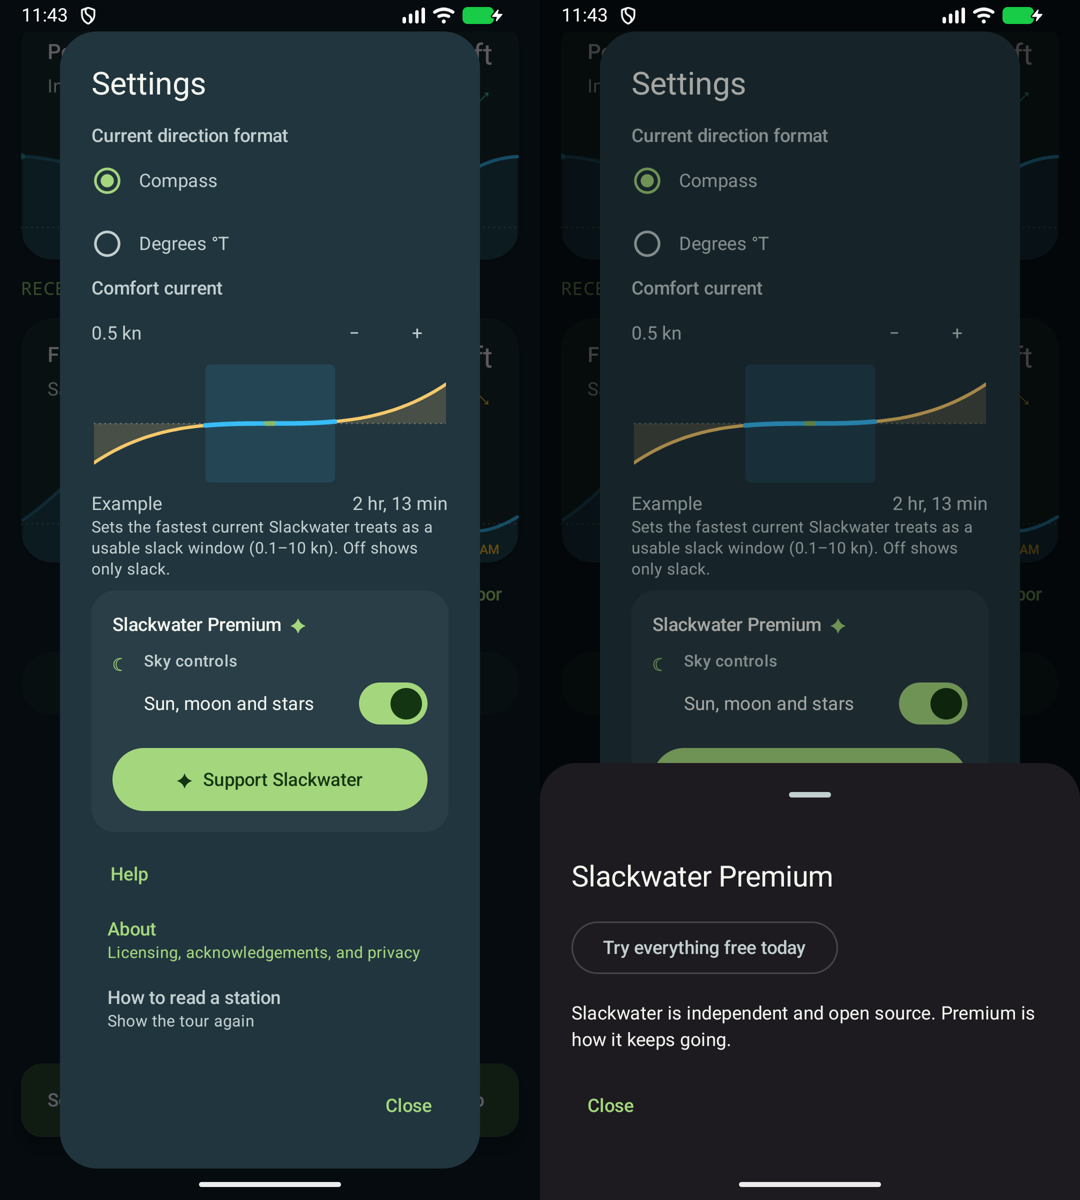
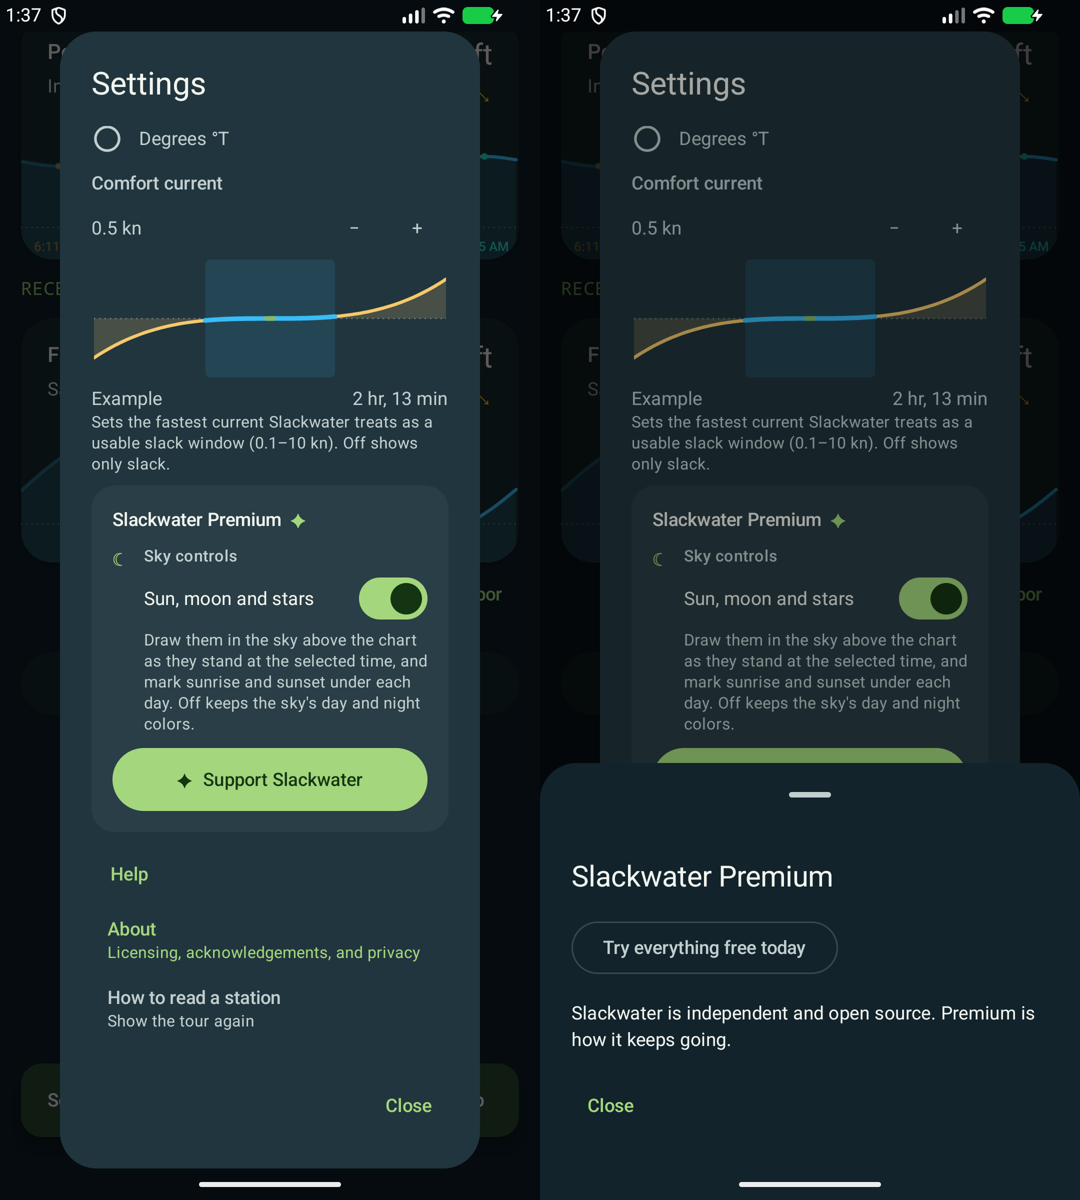
Keep the sky's day and night colors when the sun, moon and stars are off
Scrubber §14 has the switch drop only the bodies: no sun disc, moon glyph, eclipse silhouette or stars, with the gradient and eclipse shading staying. The chart stopped computing sky frames with the switch off and so painted plain navy. Frames now keep coming, the drawing stops after the gradient when the bodies are off, and the twinkle loop runs only while stars are drawn. With the chart matching, the Settings card carries iOS's footnote under the switch.

Closes #112.

diff --git a/app/src/androidTest/kotlin/io/openwaters/slackwater/android/detail/ChartSkyOffTest.kt b/app/src/androidTest/kotlin/io/openwaters/slackwater/android/detail/ChartSkyOffTest.kt
@@ -1,0 +1,120 @@
+package io.openwaters.slackwater.android.detail
+
+import android.graphics.Bitmap
+import android.graphics.Canvas
+import android.graphics.Color
+import androidx.compose.foundation.layout.Box
+import androidx.compose.foundation.layout.width
+import androidx.compose.ui.Modifier
+import androidx.compose.ui.graphics.toPixelMap
+import androidx.compose.ui.platform.testTag
+import androidx.compose.ui.test.captureToImage
+import androidx.compose.ui.test.junit4.v2.createComposeRule
+import androidx.compose.ui.test.onNodeWithTag
+import androidx.compose.ui.unit.dp
+import io.openwaters.slackwater.TidePoint
+import io.openwaters.slackwater.TideRatePoint
+import io.openwaters.slackwater.android.core.prediction.PredictionSeries
+import io.openwaters.slackwater.android.core.station.StationId
+import io.openwaters.slackwater.android.core.station.StationIdentity
+import io.openwaters.slackwater.android.core.station.StationKind
+import io.openwaters.slackwater.android.core.timeline.SkyBody
+import io.openwaters.slackwater.android.core.timeline.SkyFrame
+import io.openwaters.slackwater.android.core.timeline.SkyStar
+import java.time.Instant
+import org.junit.Assert.assertFalse
+import org.junit.Assert.assertTrue
+import org.junit.Rule
+import org.junit.Test
+
+class ChartSkyOffTest {
+    @get:Rule val compose = createComposeRule()
+    private val now = Instant.parse("2026-06-01T20:00:00Z")
+    private val width = 240f
+    private val horizon = 186f
+    // Midday: the sun high in the middle of the sky, the moon up to its left.
+    private val noon = SkyFrame(
+        sun = SkyBody(x = 0.5, altitude = 30.0), moon = SkyBody(x = 0.25, altitude = 30.0),
+        phase = 0.5, limbDegrees = 0.0, obscuration = 0.0, umbra = 0.0, wash = 0.0, stars = emptyList(),
+    )
+
+    private fun draw(frame: SkyFrame?, bodies: Boolean): Bitmap {
+        val bitmap = Bitmap.createBitmap((width * 4).toInt(), 420 * 4, Bitmap.Config.ARGB_8888)
+        val canvas = Canvas(bitmap).apply { scale(4f, 4f) }
+        ChartDrawing(canvas, width, now, now).sky(frame, horizon, 0.0, 0f, 0f, bodies = bodies)
+        return bitmap
+    }
+
+    // Where `sky` places the sun's 8-unit disc: centred across the padded width, 3 units per degree above the horizon.
+    private fun sunPixel(bitmap: Bitmap) =
+        bitmap.getPixel(((noon.sun.x * (width + 16) - 8) * 4).toInt(), ((horizon - 3 * noon.sun.altitude) * 4).toInt())
+
+    private fun isSunYellow(color: Int) = Color.red(color) > 200 && Color.green(color) > 160 && Color.blue(color) < 140
+
+    @Test fun withTheBodiesOffTheDaySkyKeepsItsGradientWithoutTheSun() {
+        val bare = draw(null, bodies = false)
+        val navy = bare.getPixel(40, 20)
+        bare.recycle()
+        val off = draw(noon, bodies = false)
+        // The daytime top colour is a day blue, well away from the navy drawn when no sky is painted.
+        val top = off.getPixel(40, 20)
+        assertTrue("top ${Integer.toHexString(top)} navy ${Integer.toHexString(navy)}",
+            Color.blue(top) - Color.blue(navy) > 60 && Color.blue(top) > Color.red(top) + 60)
+        // The gradient brightens toward the horizon.
+        val low = off.getPixel(40, ((horizon - 4) * 4).toInt())
+        assertTrue(Color.red(low) + Color.green(low) + Color.blue(low) > Color.red(top) + Color.green(top) + Color.blue(top))
+        assertFalse("sun ${Integer.toHexString(sunPixel(off))}", isSunYellow(sunPixel(off)))
+        off.recycle()
+
+        val on = draw(noon, bodies = true)
+        assertTrue("sun ${Integer.toHexString(sunPixel(on))}", isSunYellow(sunPixel(on)))
+        on.recycle()
+    }
+
+    @Test fun withTheBodiesOffANightSkyDrawsNoStarsOrMoonAndAnEclipseStillDarkensIt() {
+        // Night: the sun well below the horizon, a bright star high on the right and the moon up on the left.
+        val night = noon.copy(sun = SkyBody(x = 0.5, altitude = -30.0),
+            stars = listOf(SkyStar(SkyBody(x = 0.8, altitude = 40.0), magnitude = 0.0)))
+        val starAt = (night.stars.single().body.x * width).toFloat() to horizon - 3 * 40f
+        val moonAt = (night.moon.x * (width + 22) - 11).toFloat() to horizon - 3 * 30f
+        // The gradient is vertical, so a pixel 40 units to the side at the same height shows the bare sky.
+        fun stands(bitmap: Bitmap, at: Pair<Float, Float>): Boolean {
+            val mark = bitmap.getPixel((at.first * 4).toInt(), (at.second * 4).toInt())
+            val bare = bitmap.getPixel(((at.first - 40) * 4).toInt(), (at.second * 4).toInt())
+            return listOf(Color::red, Color::green, Color::blue).any { it(mark) - it(bare) > 24 }
+        }
+        val on = draw(night, bodies = true)
+        assertTrue("star with bodies on", stands(on, starAt))
+        assertTrue("moon with bodies on", stands(on, moonAt))
+        on.recycle()
+        val off = draw(night, bodies = false)
+        assertFalse("star with bodies off", stands(off, starAt))
+        assertFalse("moon with bodies off", stands(off, moonAt))
+        off.recycle()
+
+        val clear = draw(noon, bodies = false)
+        val eclipsed = draw(noon.copy(obscuration = 0.98), bodies = false)
+        fun brightness(color: Int) = Color.red(color) + Color.green(color) + Color.blue(color)
+        assertTrue("an eclipse darkens the day sky", brightness(eclipsed.getPixel(40, 20)) < brightness(clear.getPixel(40, 20)) - 30)
+        clear.recycle(); eclipsed.recycle()
+    }
+
+    // The mounted chart must still compute sky frames with the switch off, or it can only paint navy.
+    @Test fun aMountedChartWithTheSkyOffPaintsTheDaySky() {
+        val fridayHarbor = StationIdentity(StationId("noaa/9449880"), "Friday Harbor", "", 48.5453, -123.0125, StationKind.Tide)
+        val points = (-6..6).map { TidePoint(now.plusSeconds(it * 3600L), 1.0 + it * 0.05) }
+        val series = PredictionSeries.Tide(points, points.map { TideRatePoint(it.time, 0.05) }, emptyList())
+        compose.setContent {
+            Box(Modifier.width(260.dp)) {
+                TimelineCanvas(fridayHarbor, series, emptyList(), now, now, Modifier.testTag("skyOffPlot"),
+                    showSky = false, controlsVisible = false)
+            }
+        }
+        // 20:00 UTC is just past Friday Harbor's midday, so the sky's top is a day blue once a frame arrives.
+        // Building the sky scene searches for eclipses, which a cold API 26 emulator can take most of a minute to do.
+        compose.waitUntil(60_000) {
+            val corner = compose.onNodeWithTag("skyOffPlot").captureToImage().toPixelMap()[4, 4]
+            corner.blue > 0.4f && corner.blue > corner.red + 0.25f
+        }
+    }
+}

diff --git a/app/src/main/kotlin/io/openwaters/slackwater/android/detail/TimelineCanvas.kt b/app/src/main/kotlin/io/openwaters/slackwater/android/detail/TimelineCanvas.kt
@@ -104,11 +104,12 @@ internal fun TimelineCanvas(
         }
     }
     val latestTime by rememberUpdatedState(selected)
-    var renderedSky by remember(station.id, showSky) { mutableStateOf<Pair<Long, SkyFrame?>?>(null) }
+    var renderedSky by remember(station.id) { mutableStateOf<Pair<Long, SkyFrame?>?>(null) }
     val sky = renderedSky?.second
-    LaunchedEffect(skyScene, showSky) {
+    // Frames keep coming with the bodies off: the gradient and eclipse shading still follow the sun (scrubber §14).
+    LaunchedEffect(skyScene) {
         val source = skyScene ?: return@LaunchedEffect
-        if (showSky) snapshotFlow { latestTime.epochSecond / 10 }.conflate().collect { bucket ->
+        snapshotFlow { latestTime.epochSecond / 10 }.conflate().collect { bucket ->
             val frame =
                 withContext(Dispatchers.Default) { source.frame(Instant.ofEpochSecond(bucket * 10)) }
             if (latestTime.epochSecond / 10 == bucket) renderedSky = bucket to frame
@@ -192,8 +193,9 @@ internal fun TimelineCanvas(
         ) == 0f
     }
     var leadSize by remember { mutableStateOf(IntSize.Zero) }
-    val twinkle = produceState(0.0, sky?.stars?.isNotEmpty() == true, reduceMotion) {
-        if (!reduceMotion && sky?.stars?.isNotEmpty() == true) while (true) {
+    val starsDrawn = showSky && sky?.stars?.isNotEmpty() == true
+    val twinkle = produceState(0.0, starsDrawn, reduceMotion) {
+        if (!reduceMotion && starsDrawn) while (true) {
             value = android.os.SystemClock.uptimeMillis() / 1000.0
             kotlinx.coroutines.delay(125)
         } else value = 0.0
@@ -228,7 +230,7 @@ internal fun TimelineCanvas(
                 native.scale(density.density, density.density)
                 ChartDrawing(native, width, selected, now).sky(
                     sky, 186f + extra, twinkle.value,
-                    leadSize.width / density.density, leadSize.height / density.density
+                    leadSize.width / density.density, leadSize.height / density.density, bodies = showSky
                 )
                 native.restore()
             }

diff --git a/app/src/main/kotlin/io/openwaters/slackwater/android/detail/ChartGeometry.kt b/app/src/main/kotlin/io/openwaters/slackwater/android/detail/ChartGeometry.kt
@@ -130,7 +130,8 @@ internal class ChartDrawing(
         pen.clearShadowLayer()
     }
 
-    fun sky(sky: SkyFrame?, horizon: Float, twinkle: Double, leadWidth: Float, leadHeight: Float) {
+    /** The sky backdrop; with [bodies] off it keeps the gradient and drops the stars, sun and moon (scrubber §14). */
+    fun sky(sky: SkyFrame?, horizon: Float, twinkle: Double, leadWidth: Float, leadHeight: Float, bodies: Boolean = true) {
         c.drawColor(navy)
         if (sky == null) return
         val (top, bottom) = skyColors(sky)
@@ -138,6 +139,7 @@ internal class ChartDrawing(
         pen.color = paper
         pen.shader = LinearGradient(0f, 0f, 0f, horizon, top, bottom, Shader.TileMode.CLAMP)
         c.drawRect(0f, 0f, width, horizon + 240, pen); pen.shader = null
+        if (!bodies) return
         val bodyLayer = c.saveLayer(0f, 0f, width, horizon + 30, null)
         fun cx(body: SkyBody, r: Float): Float {
             val px = (body.x * (width + 2 * r) - r).toFloat()

diff --git a/app/src/androidTest/kotlin/io/openwaters/slackwater/android/map/FreeDayControlTest.kt b/app/src/androidTest/kotlin/io/openwaters/slackwater/android/map/FreeDayControlTest.kt
@@ -66,6 +66,7 @@ class FreeDayControlTest {
     @Test fun noOfferOrThanksBeforeThePurchaseRecordLoads() {
         compose.setContent { PremiumSettingsCard(showSky = true, purchased = null, onSky = {}, onSupport = {}) }
         compose.onNodeWithText(context.getString(R.string.premium_sky_controls)).assertExists()
+        compose.onNodeWithText(context.getString(R.string.settings_sky_footnote)).assertExists()
         compose.onNodeWithText(context.getString(R.string.schedule_support_title)).assertDoesNotExist()
         compose.onNodeWithText(context.getString(R.string.premium_purchased)).assertDoesNotExist()
     }

diff --git a/app/src/main/kotlin/io/openwaters/slackwater/android/map/PremiumSettingsCard.kt b/app/src/main/kotlin/io/openwaters/slackwater/android/map/PremiumSettingsCard.kt
@@ -45,6 +45,8 @@ internal fun PremiumSettingsCard(showSky: Boolean, purchased: Boolean?, onSky: (
                         Text(stringResource(R.string.detail_show_sky), Modifier.weight(1f))
                         Switch(showSky, onCheckedChange = null)
                     }
+                    Text(stringResource(R.string.settings_sky_footnote), style = MaterialTheme.typography.bodySmall,
+                        color = MaterialTheme.colorScheme.onSurfaceVariant)
                 }
             }
             if (BuildConfig.PREMIUM_ENABLED && purchased != null) {

diff --git a/docs/ios-parity.md b/docs/ios-parity.md
@@ -67,7 +67,7 @@ The selected instant is the page's clock. Range/Next max/Moon/Sun content, sched
 | Alert bell/hairline marks the event moment, not lead-adjusted fire time; marker calculation is off-main, refreshed for rules/window/threshold changes, same-minute deduplicated. Cards and online gates omit markers. [Scrubber §12.5][ios-scrubber] | Nonzero lead, duplicate rules, cross-tile clipping, changed comfort threshold, and disabled/inapplicable rule cases. | #6, #22, #23 |
 | Detail current magnitude thread uses 0.5/3/8/12 kn anchors, no direction colors; positive flood-lobe fill only. Current card: 1.5 swings back/2.5 ahead, one swing ≈6.21 h; small widget 0.5 back/1.5 ahead. [Scrubber §13.2][ios-scrubber], [current charts §15][ios-current] | Absolute colors for different peak strengths, no green ramp stops, monotonic ramp luminance, contrast at worst fill point. | #21, #6, #11 |
 | Derived curve is schematic ±1 between known slacks, no speed, set, magnitude ramp, or measured windows. Phase around estimated slack uses ±12 min. [Scrubber §§9.3, 13.3][ios-scrubber] | No numeric reading leaks into cards/widgets/alerts; reference unavailable never produces a fake calm curve. | #21, #6, #10, #11 |
-| Sky is astronomical product behavior: local sun/moon, eclipses, stars, daylight/night. Alaska sunset can follow sunrise into the next civil day; polar absence is real. [Scrubber §14][ios-scrubber] | Daylight pairing, partial eclipse, reduced-motion twinkle, omitted unavailable events; hidden sky keeps prescribed gradient/shading/date/eclipse treatment. | #6, #16, #27 |
+| Sky is astronomical product behavior: local sun/moon, eclipses, stars, daylight/night. Alaska sunset can follow sunrise into the next civil day; polar absence is real. [Scrubber §14][ios-scrubber] | Daylight pairing, partial eclipse, reduced-motion twinkle, omitted unavailable events; hidden sky keeps prescribed gradient/shading/date/eclipse treatment. `ChartSkyOffTest` draws a midday frame with the sun, moon and stars off and checks that the day gradient stays and no sun disc draws, that a night frame draws no star or moon, and that an eclipse still darkens the sky; a mounted chart with the switch off paints the day sky. | #6, #16, #27, #112 |
 | Visible-span vertical scale uses viewport±1 h, at least 6 h; >97% expansion, <65% contraction, 300 ms smoothstep; chunk arrival alone cannot rescale. [Scrubber §16][ios-scrubber] | Dot and curve remain aligned while scale changes; no pumping on chunk publication. | #6 |
 | Summary/schedule layout includes water summary plus Moon/Sun; 700 dp expanded arrangement, stacking for accessibility. Range is swing size, percentile from ±15 local days; current maxima compare flood with flood/ebb with ebb. [Detail §§6, 8.3][ios-detail] | Seasonal ratio ≥3 caption, top-decile ranks, missing bounds only remove their section, online tile inert, derived Shape only. | #6 |
 | Range outlook advances by five days using complete loaded days. Sheet bar hold is 250 ms; vertical >20 dp and greater than horizontal cancels; release jumps to represented event. Moon jumps use documented first-contact/night-highest rules. [Detail §§6, 8.3][ios-detail] | No background forecast requests from the outlook; cancelled vertical gesture never dismisses/jumps; unsupported astronomy dates hide unsupported content. | #6 |
@@ -98,7 +98,7 @@ The selected instant is the page's clock. Range/Next max/Moon/Sun content, sched
 | Requirement and source | Acceptance evidence to add | Issues |
 |---|---|---|
 | All readings/dates/default chart/settings/home-screen widgets free; planning alerts/calendars/print and changing default sky are Premium. Revert to default is free; lapse preserves values. [Premium][ios-premium] | Capability matrix exercised in free, purchased, trial, lapsed, and Premium-disabled builds. | #11, #12, #23, #24, #25 |
-| Settings gathers Premium into one card marked with sparkles: a Sky controls row holding the "Sun, moon and stars" switch, then "Support Slackwater", which reads "You have Premium — thank you." once purchased and opens the Premium sheet either way. With Premium sales disabled the card has no button. The button waits for the purchase record, so a supporter is never shown the sale first. iOS's footnote under the switch waits on the chart keeping the sky's colors with the switch off (#112). What Android's card leaves out is under [Android adaptations](#android-adaptations). [List §8][ios-list] | `FreeDayControlTest` opens the sheet from Support Slackwater, thanks a stored purchase while keeping the sheet one tap away, offers Premium when a free user turns the sky off and keeps the sky on, and keeps the button out of a Premium-disabled build. A [screenshot pair](validation/evidence/settings-premium-card.png), taken November 13, 2026 on the API 37 arm64 emulator from a debug build of the `settings-premium-card` branch, English, font scale 1.0, shows a free user's card and the sheet a refused sky switch opens. Still to add: purchased and Premium-disabled Settings screenshots, once Play Billing (#12) records real purchases. | #105, #112 |
+| Settings gathers Premium into one card marked with sparkles: a Sky controls row holding the "Sun, moon and stars" switch, then "Support Slackwater", which reads "You have Premium — thank you." once purchased and opens the Premium sheet either way. With Premium sales disabled the card has no button. The button waits for the purchase record, so a supporter is never shown the sale first. A footnote under the switch says what it draws and that off keeps the sky's day and night colors. What Android's card leaves out is under [Android adaptations](#android-adaptations). [List §8][ios-list] | `FreeDayControlTest` opens the sheet from Support Slackwater, thanks a stored purchase while keeping the sheet one tap away, offers Premium when a free user turns the sky off and keeps the sky on, shows the footnote, and keeps the button out of a Premium-disabled build. A [screenshot pair](validation/evidence/settings-premium-card.png), taken November 13, 2026 on the API 37 arm64 emulator from a debug build of the `sky-off-colors` branch, English, font scale 1.0, shows a free user's card with its footnote and the sheet a refused sky switch opens. Still to add: purchased and Premium-disabled Settings screenshots, once Play Billing (#12) records real purchases. | #105, #112 |
 | Free day once per device-calendar month, 24 elapsed hours, first-of-month eligibility; purchased-or-free-day is one shared gate. [Premium][ios-premium] | Month/DST/time-zone transitions, pending purchase, buying during trial, expiry with process absent; local-only state disclosed. | #12, #23, #24, #25 |
 | Rules name concrete stations, preserve unknown serialized forms; once is nearest occurrence within six hours, not exact-minute matching. [Alerts §§3–4][ios-alerts] | Rule upgrade/downgrade round trip, shifted event, no nearby occurrence, expired-rule pruning. | #22 |
 | Triggers and sun filters reuse shared predictions; heights stored in metres, minute-floor identities, per-local-day extremes. New editor lead 30 min; choices 0/15/30/60/180/1440. [Alerts §§3–4, 7][ios-alerts] | All triggers, golden 0°…+6°, blue −4°…−8°, cross-midnight/polar behavior, threshold Off and window opening. | #22, #23 |
